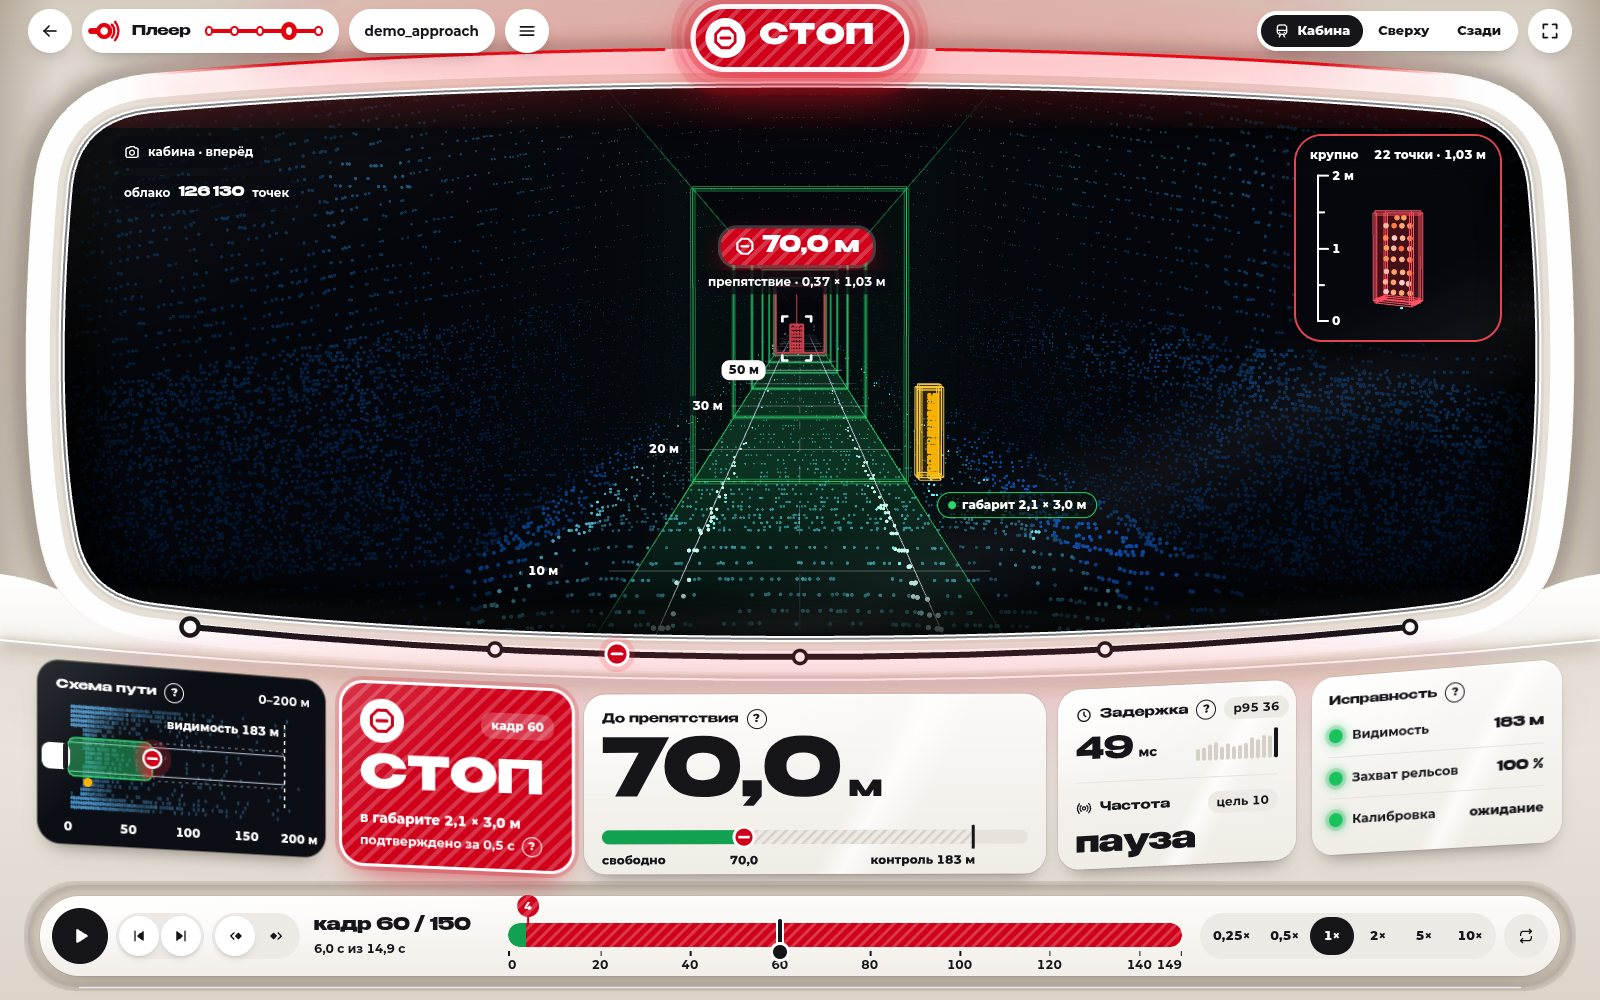
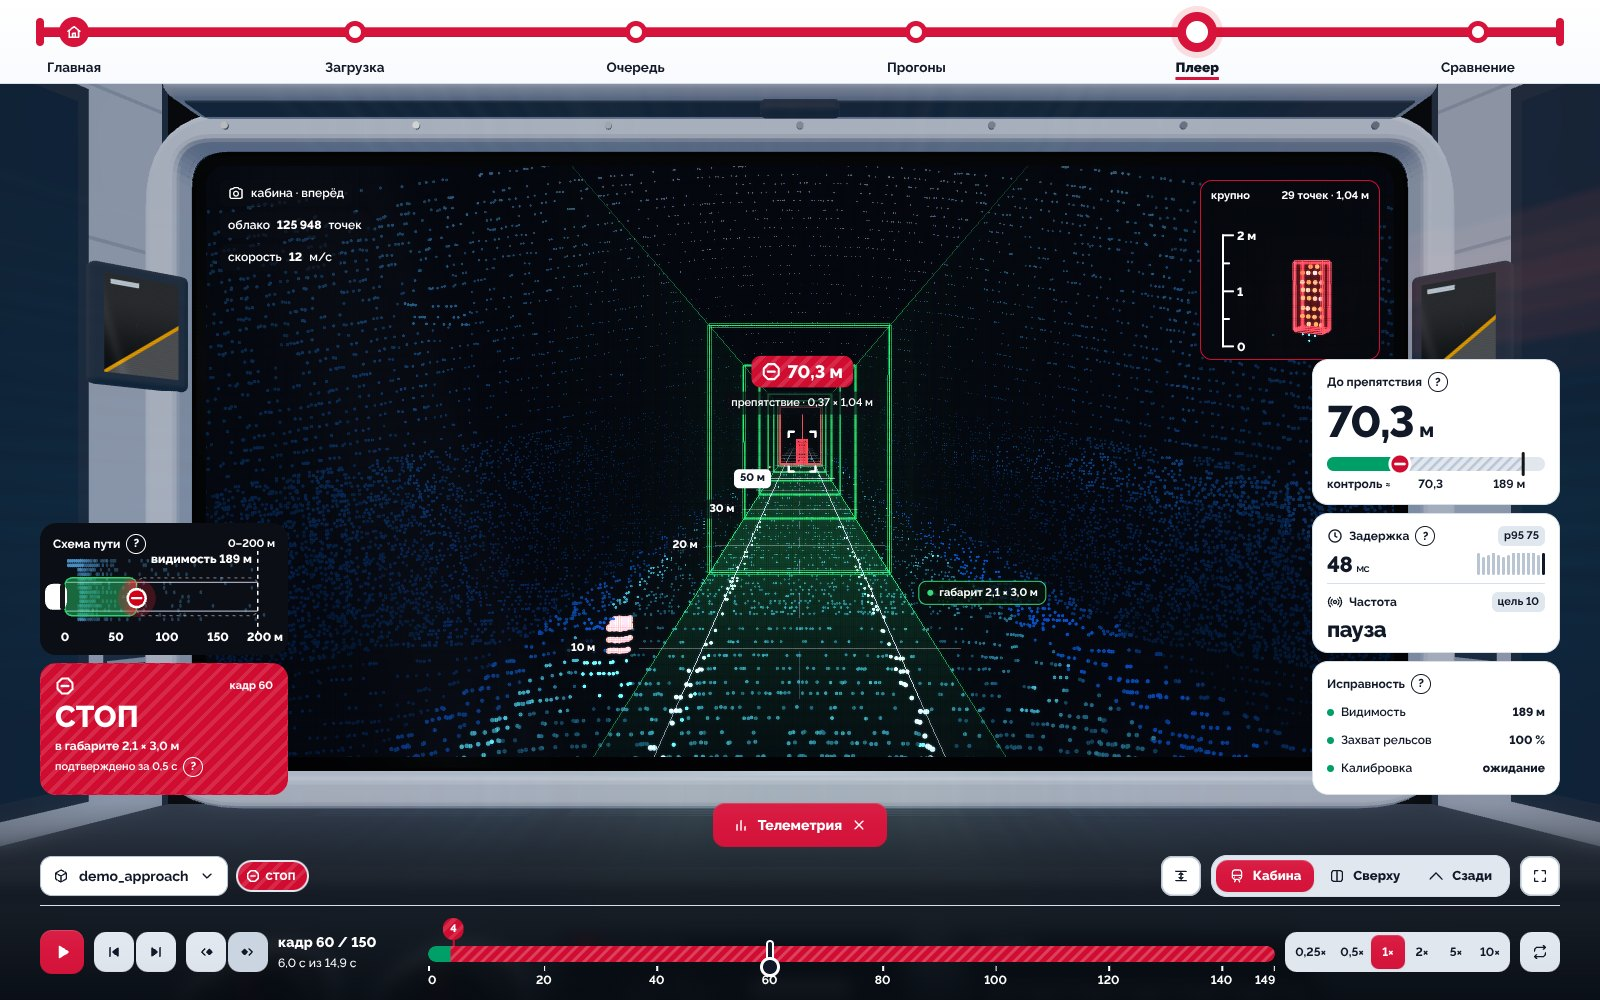
Cab: instanced repeated parts, boot log wording, e2e robustness, captures
- The cab's push buttons, toggles, screws and defroster slats are drawn as one
  instanced mesh per geometry and material: 92 meshes instead of 235, with a
  unit test bounding it (61 buttons).
- Boot log: «запись · 80 кадров · 7,9 с» instead of a repeated «кадры».
- e2e: back_to waits for the section overlay to lift before hovering (CI run 717,
  shard 3, compare chart tooltip); the doors test skips the walk with a key
  after the mocked clock resumes, and the skip test runs on the controlled
  clock (CI run 717, shard 2: the walk crawled under a resumed fake clock).
- docs/images/player-cab/: the cab at 1280/1366/1440/1920, the picker, the walk
  and the boot (SwiftShader, synthetic demos); webapp-player.jpg recaptured as the
  cab (15 s demo_approach, frame 60, telemetry open) with updated alt texts.

Checked: 371 unit tests, type check and build; the navigation, analysis and
player browser modules (51 tests) on the final build.

Claude-Session: https://claude.ai/code/session_01WXXjss4knXEiqc1cNx4TN5

diff --git a/webapp/frontend/src/player/cockpit.ts b/webapp/frontend/src/player/cockpit.ts
@@ -115,6 +115,9 @@ export class CabCockpit {
   readonly doorLeaves: THREE.Object3D[] = [];
   private readonly full: boolean;
   private geometries: THREE.BufferGeometry[] = [];
+  /** repeated parts queued during a build, drawn as one instanced mesh per geometry and material */
+  private readonly batches = new Map<string, { geometry: THREE.BufferGeometry; material: THREE.Material; name: string; matrices: THREE.Matrix4[] }>();
+  private instanced: THREE.InstancedMesh[] = [];
   private readonly shared = new Map<string, THREE.BufferGeometry>();
   private readonly trim = new THREE.MeshStandardMaterial({ color: srgb(0xc9cfd6), roughness: 0.58, metalness: 0.04, side: THREE.DoubleSide });
   private readonly trimShade = new THREE.MeshStandardMaterial({ color: srgb(0xa9b1ba), roughness: 0.6, metalness: 0.04, side: THREE.DoubleSide });
@@ -209,15 +212,49 @@ export class CabCockpit {
     return g;
   }
 
+  /** Queue one copy of a repeated part at a position (and rotation) in `parent`. */
+  private repeat(geometry: THREE.BufferGeometry, material: THREE.Material, name: string, parent: THREE.Object3D, position: THREE.Vector3, rotation = new THREE.Euler()): void {
+    parent.updateWorldMatrix(true, false);
+    this.group.updateWorldMatrix(true, false);
+    const local = new THREE.Matrix4().compose(position, new THREE.Quaternion().setFromEuler(rotation), new THREE.Vector3(1, 1, 1));
+    const matrix = this.group.matrixWorld.clone().invert().multiply(parent.matrixWorld).multiply(local);
+    const key = `${geometry.uuid}:${material.uuid}`;
+    let batch = this.batches.get(key);
+    if (!batch) this.batches.set(key, batch = { geometry, material, name, matrices: [] });
+    batch.matrices.push(matrix);
+  }
+
+  private repeatBox(w: number, h: number, d: number, radius: number, material: THREE.Material, x: number, y: number, z: number, name: string, parent: THREE.Object3D = this.group, rotation?: THREE.Euler): void {
+    const r = Math.min(radius, w / 2, h / 2, d / 2);
+    const geometry = this.part(`box:${w}:${h}:${d}:${r}`, () => (r > 0 ? new RoundedBoxGeometry(w, h, d, 2, r) : new THREE.BoxGeometry(w, h, d)));
+    this.repeat(geometry, material, name, parent, new THREE.Vector3(x, y, z), rotation);
+  }
+
+  /** Draw every queued repeated part: one instanced mesh per geometry and material. */
+  private flushRepeats(): void {
+    for (const { geometry, material, name, matrices } of this.batches.values()) {
+      const mesh = new THREE.InstancedMesh(geometry, material, matrices.length);
+      matrices.forEach((m, i) => mesh.setMatrixAt(i, m));
+      mesh.instanceMatrix.needsUpdate = true;
+      mesh.computeBoundingSphere();
+      mesh.name = name;
+      this.group.add(mesh);
+      this.instanced.push(mesh);
+    }
+    this.batches.clear();
+  }
+
   /** A push button: dark collar and a coloured, backlit cap. */
   private button(parent: THREE.Object3D, x: number, y: number, tone: CapTone, size = 0.026): void {
-    this.box(size + 0.012, size + 0.012, 0.006, 0.003, this.black, x, y, 0.003, 'desk-button-collar', parent);
-    this.box(size, size, 0.012, 0.004, this.caps[tone], x, y, 0.008, 'desk-button', parent);
+    this.repeatBox(size + 0.012, size + 0.012, 0.006, 0.003, this.black, x, y, 0.003, 'desk-button-collar', parent);
+    this.repeatBox(size, size, 0.012, 0.004, this.caps[tone], x, y, 0.008, 'desk-button', parent);
   }
 
   build(layout: CabLayout): void {
     for (const g of this.geometries) g.dispose();
     for (const g of this.shared.values()) g.dispose();
+    for (const m of this.instanced) m.dispose();
+    this.instanced = [];
     this.geometries = [];
     this.shared.clear();
     this.group.clear();
@@ -247,9 +284,8 @@ export class CabCockpit {
     moulding.position.set(fcx, fcy, 0.004);
     // the moulding's screws along the top, as on the reference cab trim
     for (let i = 0; i < 7; i++) {
-      const screw = this.add(this.part('screw', () => new THREE.CylinderGeometry(0.006, 0.006, 0.004, 10)), this.aluminium, 'trim-screw', this.group, false);
-      screw.rotation.x = Math.PI / 2;
-      screw.position.set(F.x0 + 0.12 + (fw - 0.24) * (i / 6), F.y1 - 0.016, 0.046);
+      this.repeat(this.part('screw', () => new THREE.CylinderGeometry(0.006, 0.006, 0.004, 10)), this.aluminium, 'trim-screw', this.group,
+        v(F.x0 + 0.12 + (fw - 0.24) * (i / 6), F.y1 - 0.016, 0.046), new THREE.Euler(Math.PI / 2, 0, 0));
     }
 
     // A-pillars: light-grey panels flaring back to the cab sides, with seams, a vent grille,
@@ -341,7 +377,7 @@ export class CabCockpit {
       const w = (fw - 0.5) / 4 - 0.06;
       const x = F.x0 + 0.25 + (w + 0.06) * (i + 0.5);
       this.quad(v(x - w / 2, shieldY + 0.001, 0.05), v(x + w / 2, shieldY + 0.001, 0.05), v(x + w / 2, shieldY + 0.001, 0.09), v(x - w / 2, shieldY + 0.001, 0.09), this.black, 'defroster-vent');
-      for (let k = 0; k < 4; k++) this.box(w, 0.004, 0.003, 0, this.desk, x, shieldY + 0.003, 0.056 + k * 0.01, 'defroster-vent-slat');
+      for (let k = 0; k < 4; k++) this.repeatBox(w, 0.004, 0.003, 0, this.desk, x, shieldY + 0.003, 0.056 + k * 0.01, 'defroster-vent-slat');
     }
     this.box(3.2, 0.04, 0.04, 0.018, this.desk, 0, shieldY - 0.012, lipZ, 'desk-lip');
     const deskTop = shieldY - 0.03;
@@ -376,9 +412,8 @@ export class CabCockpit {
     ];
     rows.forEach((row, r) => row.forEach((tone, c) => this.button(deskFrame, -0.22 + c * 0.075, on(0.5 + r * 0.075), tone)));
     for (let i = 0; i < 6; i++) {
-      this.box(0.03, 0.05, 0.012, 0.004, this.black, 0.6 + i * 0.06, on(0.56), 0.006, 'desk-toggle-base', deskFrame);
-      const lever = this.box(0.008, 0.008, 0.045, 0.003, this.aluminium, 0.6 + i * 0.06, on(0.56) + 0.008, 0.03, 'desk-toggle-lever', deskFrame);
-      lever.rotation.x = -0.4;
+      this.repeatBox(0.03, 0.05, 0.012, 0.004, this.black, 0.6 + i * 0.06, on(0.56), 0.006, 'desk-toggle-base', deskFrame);
+      this.repeatBox(0.008, 0.008, 0.045, 0.003, this.aluminium, 0.6 + i * 0.06, on(0.56) + 0.008, 0.03, 'desk-toggle-lever', deskFrame, new THREE.Euler(-0.4, 0, 0));
     }
     // driver's controller (traction / brake) at the left hand, reverser lock beside it
     const km = this.holder(v(-0.72, on(0.62), 0), new THREE.Euler(), deskFrame);
@@ -412,6 +447,7 @@ export class CabCockpit {
     }
 
     if (this.full) this.buildRear();
+    this.flushRepeats();
   }
 
   /** The cab behind the seated view: walls, floor, ceiling, rear bulkhead and door, seat. */
@@ -495,6 +531,8 @@ export class CabCockpit {
   dispose(): void {
     for (const g of this.geometries) g.dispose();
     for (const g of this.shared.values()) g.dispose();
+    for (const m of this.instanced) m.dispose();
+    this.instanced = [];
     this.geometries = [];
     this.shared.clear();
     for (const m of [...this.lit, this.lamp, this.doorRed, ...this.screens]) m.dispose();

diff --git a/webapp/frontend/src/pages/Player/index.tsx b/webapp/frontend/src/pages/Player/index.tsx
@@ -26,7 +26,7 @@ import styles from './Player.module.css';
 import { useNavigationPreview } from '../../lib/navigationPreview';
 import { COVERED_PHASES, useSectionMotion } from '../../lib/sectionMotion';
 import { CAB_BOOT_MS, type CabBootInfo } from '../../player/cabBoot';
-import { fmtFrames } from '../../lib/format';
+import { fmtDuration, fmtFrames } from '../../lib/format';
 import { envelopeText } from './cab';
 
 // ---------------------------------------------------------------- the stage
@@ -410,11 +410,11 @@ function Cab({ run, seriesT, seriesFrames, latency, cloudFrames, cloudBudget, cl
 
   const bootLines = useMemo(() => [
     `прогон · ${run.name}`,
-    `кадры · ${fmtFrames(n)}`,
+    `запись · ${fmtFrames(n)} · ${fmtDuration(run.summary.duration_s)}`,
     hasClouds ? `облака точек · ${fmtFrames(run.cloud_frames)}` : 'облака точек · нет, схематичный режим',
     `габарит · ${envelopeText()}`,
     `параметры · ${run.preset.name}`,
-  ], [run.name, run.cloud_frames, run.preset.name, n, hasClouds]);
+  ], [run.name, run.cloud_frames, run.preset.name, run.summary.duration_s, n, hasClouds]);
   const stateAttr = decision ? decision.toLowerCase() : undefined;
   const pr = Math.min(2, window.devicePixelRatio || 1);
   return (

diff --git a/webapp/frontend/src/player/screenDisplay.test.ts b/webapp/frontend/src/player/screenDisplay.test.ts
@@ -180,6 +180,22 @@ describe('driver cab display', () => {
     display.dispose();
   });
 
+  it('draws repeated parts instanced, keeping the cab to a bounded number of draw calls', () => {
+    const display = new ScreenDisplay();
+    display.setSize(1440, 816, 1, { width: 1368, left: 36, height: 648, top: 8 });
+    let meshes = 0;
+    let buttons = 0;
+    display.scene.traverse(object => {
+      if (!(object instanceof THREE.Mesh)) return;
+      meshes += 1;
+      if (object instanceof THREE.InstancedMesh && object.name === 'desk-button') buttons += object.count;
+    });
+    // 30 desk, 16 overhead and 15 wing push buttons; before instancing the cab was 235 meshes
+    expect(buttons).toBe(61);
+    expect(meshes).toBeLessThan(110);
+    display.dispose();
+  });
+
   it('keeps the cab without an active picture for the picker and error states', () => {
     const empty = new ScreenDisplay(true);
     empty.setSize(1440, 752, 1);

diff --git a/webapp/e2e/test_navigation.py b/webapp/e2e/test_navigation.py
@@ -110,9 +110,12 @@ def test_train_doors_cover_navigation_before_revealing_destination(app, width, h
     page.evaluate('history.back()')
     expect(page.locator('[data-app-shell]')).to_have_attribute('data-section-motion', 'boarding')
     expect(doors).to_be_hidden()
-    # Let lazy Player/GPU initialization use real time rather than freezing its effects.
+    # Let lazy Player/GPU initialization use real time rather than freezing its effects. A resumed
+    # mocked clock lets the walk's animation time crawl under software WebGL: skip it once it runs.
     page.clock.resume()
     expect(page).to_have_url(app.base + '/player')
+    expect(page.locator('[data-cab-entry]')).to_have_attribute('data-entry-ready', 'true', timeout=60000)
+    page.keyboard.press('Escape')
     expect(page.locator('[data-cab-entry]')).to_have_count(0, timeout=60000)
     expect(page.locator('[data-app-shell]')).to_have_attribute('data-section-motion', 'idle')
 
@@ -281,7 +284,7 @@ def test_failed_raster_preparation_reveals_page_and_recovers_next_navigation(app
 def wait_boarding_ready(page):
     """The walk-in's 3D chunk and first frame are real browser work, outside the mocked clock."""
     entry = page.locator('[data-cab-entry]')
-    for i in range(600):
+    for i in range(1200):
         if entry.get_attribute('data-entry-ready') == 'true':
             return entry
         page.wait_for_timeout(50)
@@ -349,21 +352,18 @@ def test_any_key_skips_the_walk_without_reaching_the_player(app):
     page = app.page
     app.goto('/queue')
     expect(page.get_by_role('heading', name='Очередь', exact=True)).to_be_visible()
-    shell = page.locator('[data-app-shell]')
+    page.clock.install()
+    page.clock.pause_at(page.evaluate('Date.now()'))
     page.get_by_role('navigation', name='Линия: путь работы с записью').get_by_role('link', name='Плеер', exact=True).click()
-    entry = page.locator('[data-cab-entry]')
-    expect(entry).to_have_attribute('data-entry-ready', 'true')
+    entry = wait_boarding_ready(page)
     # Esc would make the Player go back; here it only skips to the seat.
     page.keyboard.press('Escape')
-    expect(shell).to_have_attribute('data-section-motion', 'idle')
+    run_clock_until(page, 'arriving', step=16, limit=20)
+    page.clock.run_for(330)
+    expect(page.locator('[data-app-shell]')).to_have_attribute('data-section-motion', 'idle')
     expect(entry).to_have_count(0)
     expect(page).to_have_url(app.base + '/player')
     expect(page.get_by_text('Прогонов пока нет', exact=True)).to_be_visible()
-    # Leaving the Player still closes the doors and travels.
-    page.get_by_role('navigation', name='Линия: путь работы с записью').get_by_role('link', name='Сравнение', exact=True).click()
-    expect(page).to_have_url(app.base + '/compare')
-    expect(page.locator('[data-train-doors]')).to_be_hidden()
-    expect(shell).to_have_attribute('data-section-motion', 'idle')
     assert app.errors == []
 
 

diff --git a/webapp/e2e/test_analysis.py b/webapp/e2e/test_analysis.py
@@ -34,6 +34,8 @@ def back_to(page, pattern: str) -> None:
     expect(page).to_have_url(re.compile(pattern))
     # React transitions can retain the outgoing DOM after history already changed.
     expect(page.get_by_role("slider", name="Кадр прогона")).to_have_count(0)
+    # The section change's overlay takes the pointer until it has lifted (hover checks follow).
+    expect(page.locator("[data-train-doors]")).to_be_hidden()
 
 
 def test_player_link_waits_for_rendered_destination(app, backend):

diff --git a/DESIGN.md b/DESIGN.md
@@ -183,7 +183,7 @@ The shared system combines neutral tonal layering with soft card, popover and pr
 
 The Player's depth is actual Three.js geometry seen through a perspective eye. `cockpit.ts` builds the driver's cab around the measured display region (`cabLayout`): the windshield plane is z = 0, the seated eye looks straight down −z from 1.6 m with a 50° vertical field over the Player canvas, so the live face projects affinely and the DOM HUD stays aligned. Around the active face run the windshield glass with its black ceramic frit band (shader, fading to dots), a black bonding bead and an extruded light-grey moulding with screws; the A-pillars flare back to the cab sides with seams, a vent grille, a bronze grab handle, a platform-camera monitor on an arm and the side window beyond; the header carries a sun-visor roller housing with a red line, the ceiling an LED panel and an overhead switch panel whose lower edge is computed to stay above the glass at every head position. Below the glass a matte glare shield with defroster slots leads to the sloping graphite desk: traction and diagnostics displays, two manometers, rows of backlit push buttons, toggle switches, the driver's controller with its red grip and reverser lock, the emergency stop and the radio handset, with angled wing panels. Most of the desk sits under the dock in the Player and is seen whole during the walk-in. The instrument faces (`cabShaders.ts`) are procedural and decorative in the application palette: they draw blocks, traces and dials, never a value that could be read as a measurement. No photograph pixels ship in the scene, and no factory-dimensional scan is claimed.
 
-The opaque cab fills the Player background. Colours are sRGB values converted to linear light, lit, compressed and gamma-encoded in the material (`encodePbr`; the LiDAR target keeps its display values). Neutral ceiling LEDs, a soft windshield fill, a warm fill from the saloon side and a hemispheric bounce light the cab (`cabLights`, shared with the walk-in); a small procedural cab reflection probe (the windshield ahead, roof strips above) is prefiltered once per renderer and cached. Dynamic shadow maps stay disabled. Geometry is rebuilt on resize; repeated parts share geometry and everything owned is disposed. Model checks verify the projection/HUD alignment, that no opaque cab part covers the live picture at any head position (with a positive control), the boot timeline and disposal.
+The opaque cab fills the Player background. Colours are sRGB values converted to linear light, lit, compressed and gamma-encoded in the material (`encodePbr`; the LiDAR target keeps its display values). Neutral ceiling LEDs, a soft windshield fill, a warm fill from the saloon side and a hemispheric bounce light the cab (`cabLights`, shared with the walk-in); a small procedural cab reflection probe (the windshield ahead, roof strips above) is prefiltered once per renderer and cached. Dynamic shadow maps stay disabled. Geometry is rebuilt on resize; repeated parts (push buttons, toggles, screws, defroster slats) are drawn as one instanced mesh per geometry and material, which keeps the cab to about 90 meshes instead of 235, and everything owned is disposed. Model checks verify the projection/HUD alignment, that no opaque cab part covers the live picture at any head position (with a positive control), the boot timeline and disposal.
 
 Normalized mouse displacement sets a bounded quadratic head target: up to 6 cm sideways and 3.5 cm vertically. The eye translates and never rotates, so the windshield stays parallel to the screen (the HUD transform remains a pure translation) while nearer cab parts move more than farther ones. Exponential smoothing (10 per second, allowing up to .5s elapsed time per slow frame) settles to the exact target; centre, pointer leave and window blur return to exact neutral. Mouse pressure requires no held button; touch does not drive it, and reduced motion blocks new pressure and resets the pose. The canvas publishes the current offset as `data-head-x`/`data-head-y`.
 

diff --git a/docs/images/player-cab/README.md b/docs/images/player-cab/README.md
@@ -1,0 +1,37 @@
+# Player as the driver's cab
+
+The user asked (21.10) for the Player to stop being a screen on a saloon wall and become a
+metro driver's cab, entered by walking into it: no door animation, you turn right, walk to
+the driver's cab, its door opens, you enter, sit down (the view goes low), and the screens
+then turn on Iron Man-style with a short initialization. A first spaceship styling was
+corrected the same day: a cab close to a real train, in the site's general style, with more
+detail. The cab follows Moskva-2020 cues (light-grey moulded trim, a black-bonded windshield
+with its frit band, pillar camera monitors, vent grilles, a sun-visor housing, an overhead
+switch panel and a graphite desk with displays, manometers, push buttons and the driver's
+controller); the saloon of the walk uses the earlier saloon photographs' cues.
+
+## Captures
+
+Headless Chromium 1194 with SwiftShader (software WebGL), DPR 1, on the Vite dev server of
+this checkout with a local backend and synthetic demo runs (`demo_approach` and
+`demo_crossing` of 8 s, a `demo_approach` of 15 s for the README picture). UI demonstrations,
+not detector evaluation evidence; the cab's instrument faces are decorative.
+
+- `cab-{1280,1366,1440,1920}.jpg`: the Player on `demo_approach` at frame 30, at 1280×720,
+  1366×768, 1440×900 and 1920×1080 (reduced motion: no boot, eye at rest).
+- `picker-1440.jpg`: the run picker in the cab (no live picture).
+- `walk-{0-page,1-turn,2-aisle,3-door,4-cab,5-seated}.jpg`: the walk into the Player from
+  Прогоны (clicking a run's play link) at 1440×900, rendered frame by frame on Playwright's
+  controlled clock (`page.clock`, 40 ms steps) with CSS animations pinned to the same clock: the
+  first frame (the leaving page), the right turn, the aisle, through the open cab door, the cab
+  with the seat, and the seated view with the instruments still dark.
+- `boot-{1-init,2-scan,3-ready,4-playing}.jpg`: the Player's boot after the walk: brackets,
+  reticle and the initialization log over the dark windshield; the scan line revealing the
+  picture; «Система готова»; playback started after the boot.
+
+The same frames, at 25 frames per second, make the 8.4 s review video sent to the user (not
+committed).
+
+Checked: the first walk frame's leaving-page plane spans the viewport within 1.5 px at
+1440×900 and 1280×720 (browser test), and a pixel diff against the page before the click
+differs only in the fake clock's relative date text and single-glyph antialiasing.

diff --git a/docs/images/README.md b/docs/images/README.md
@@ -91,8 +91,10 @@ chart, events, the score against labels, a 3D preview and the downloads.
 «Быстрое подтверждение» (confirmation 0.5 → 0.3 s): aligned strips, distances, the best value per row
 and «Что изменилось».
 
-![Плеер: the cab view of demo_approach at frame 60 with the point cloud, the 2.1 × 3.0 m envelope, the obstacle at 70.0 m with a close-up and the HUD tiles](webapp-player.jpg)
+![Плеер: the driver's cab with demo_approach at frame 60 in the windshield: the point cloud, the 2.1 × 3.0 m envelope, the obstacle at 70.3 m with a close-up, and the open telemetry panels](webapp-player.jpg)
 
-**Плеер** (`/player/:id`): the fullscreen cab view: the frame's point cloud, the 2.1 × 3.0 m envelope
-along the fitted track, the obstacle with its distance and a close-up, tiles for the track scheme,
-the decision, the distance, latency and health, and the scrubber coloured by decision.
+**Плеер** (`/player/:id`): the driver's cab (recaptured 21.10 on a new 15 s `demo_approach`, 1600×1000,
+SwiftShader): the frame's point cloud in the windshield, the 2.1 × 3.0 m envelope along the fitted
+track, the obstacle with its distance and a close-up, the open telemetry (track scheme, decision,
+distance, latency and rate, health) and the scrubber coloured by decision. More captures of the cab,
+the walk into it and its boot: [`player-cab/`](player-cab/README.md).
